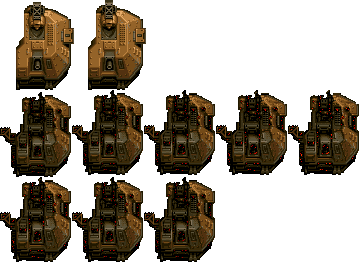
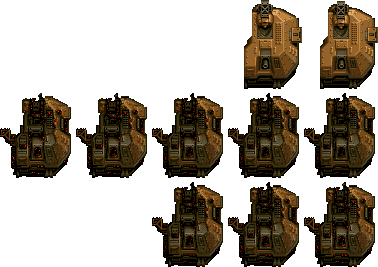
Corrected LEFT / RIGHT side animations

diff --git a/GunBird - CodedDreams/Enemy_RightSide.cpp b/GunBird - CodedDreams/Enemy_RightSide.cpp
@@ -14,15 +14,28 @@ Enemy_RightSide::Enemy_RightSide(int x, int y): Enemy(x, y)
 	WhiteSprite = nullptr;
 
 	//Set animation steps, speed and loop
-	moving.PushBack({ 16, 0, 58, 90 });
-	moving.PushBack({ 88, 0, 58, 90 });
+	moving.PushBack({ 304, 0, 74, 89 });
+	moving.PushBack({ 228, 0, 74, 89 });
 	moving.speed = 0.2f;
 	moving.loop = true;
+
+	//Death animation
+	dead.PushBack({ 0, 89, 74, 89 });
+	dead.PushBack({ 76, 89, 74, 89 });
+	dead.PushBack({ 152, 89, 74, 89 });
+	dead.PushBack({ 228, 89, 74, 89 });
+	dead.PushBack({ 304, 89, 74, 89 });
+	dead.PushBack({ 152, 178, 74, 89 });
+	dead.PushBack({ 228, 178, 74, 89 });
+	dead.PushBack({ 304, 178, 74, 89 });
+	dead.speed = 0.1f;
+	dead.loop = true;
 
 	//Set path
 	path.PushBack({0.0f, 0.09f}, 670, &moving); //Si esta quiet en un punt ha de tenir velocitat y = 0.2 per moures a la mateixa velocitat que l'overlay
 	path.PushBack({ 0.0f, -0.9f }, 300, &moving);
 	path.PushBack({ 0.0f, -0.3f }, 5000, &moving);
+
 	//Set lives, initial_hp, points adn extra_anim
 	lives = 1;
 	initial_hp = lives;
@@ -66,4 +79,10 @@ void Enemy_RightSide::Move()
 		state = 1;
 	}
 	lower_level = true;
+}
+
+void Enemy_RightSide::DeadAnim()
+{
+	animation = &dead;
+	position.y += 0.09f; //Perque es mogui a la mateixa velocitat que l'overlay
 }

diff --git a/GunBird - CodedDreams/Enemy_LeftSide.cpp b/GunBird - CodedDreams/Enemy_LeftSide.cpp
@@ -15,20 +15,21 @@ Enemy_LeftSide::Enemy_LeftSide(int x, int y): Enemy(x, y)
 	WhiteSprite = nullptr;
 
 	//Set animation steps, speed and loop
-	moving.PushBack({ 0, 0, 71, 89 });
-	moving.PushBack({ 72, 0, 71, 89 });
+	moving.PushBack({ 0, 0, 74, 89 });
+	moving.PushBack({ 76, 0, 74, 89 });
 	moving.speed = 0.2f;
 	moving.loop = true;
 
 	//Death animation
-	dead.PushBack({ 3, 92, 71, 89});
-	dead.PushBack({ 75, 92, 71, 89 });
-	dead.PushBack({ 147, 92, 71, 89 });
-	dead.PushBack({ 219, 92, 71, 89 });
-	dead.PushBack({ 291, 92, 71, 89 });
-	dead.PushBack({ 3, 181, 71, 89 });
-	dead.PushBack({ 75, 181, 71, 89 });
-	dead.PushBack({ 147, 181, 71, 89 });
+	dead.PushBack({ 0, 89, 74, 89 });
+	dead.PushBack({ 76, 89, 74, 89 });
+	dead.PushBack({ 152, 89, 74, 89 });
+	dead.PushBack({ 228, 89, 74, 89 });
+	dead.PushBack({ 304, 89, 74, 89 });
+	dead.PushBack({ 0, 178, 74, 89 });
+	dead.PushBack({ 152, 178, 74, 89 });
+	dead.PushBack({ 228, 178, 74, 89 });
+	dead.PushBack({ 304, 178, 74, 89 });
 	dead.speed = 0.1f;
 	dead.loop = true;
 

diff --git a/GunBird - CodedDreams/Enemy_RightSide.h b/GunBird - CodedDreams/Enemy_RightSide.h
@@ -12,12 +12,14 @@ public:
 	~Enemy_RightSide();
 
 	void Move();
+	void DeadAnim();
 
 public:
 
 	int state = 0;
 	Path path;
 	Animation moving;
+	Animation dead;
 
 };
 
